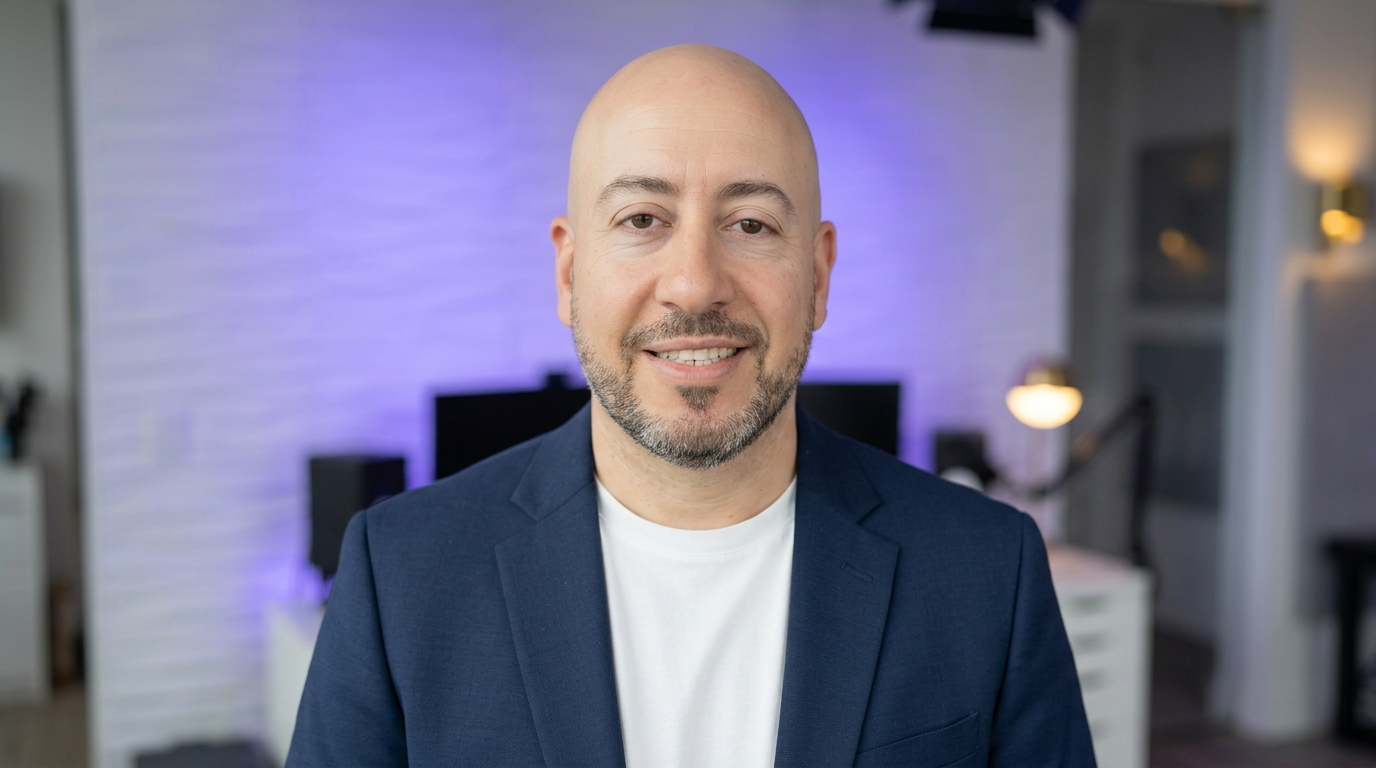
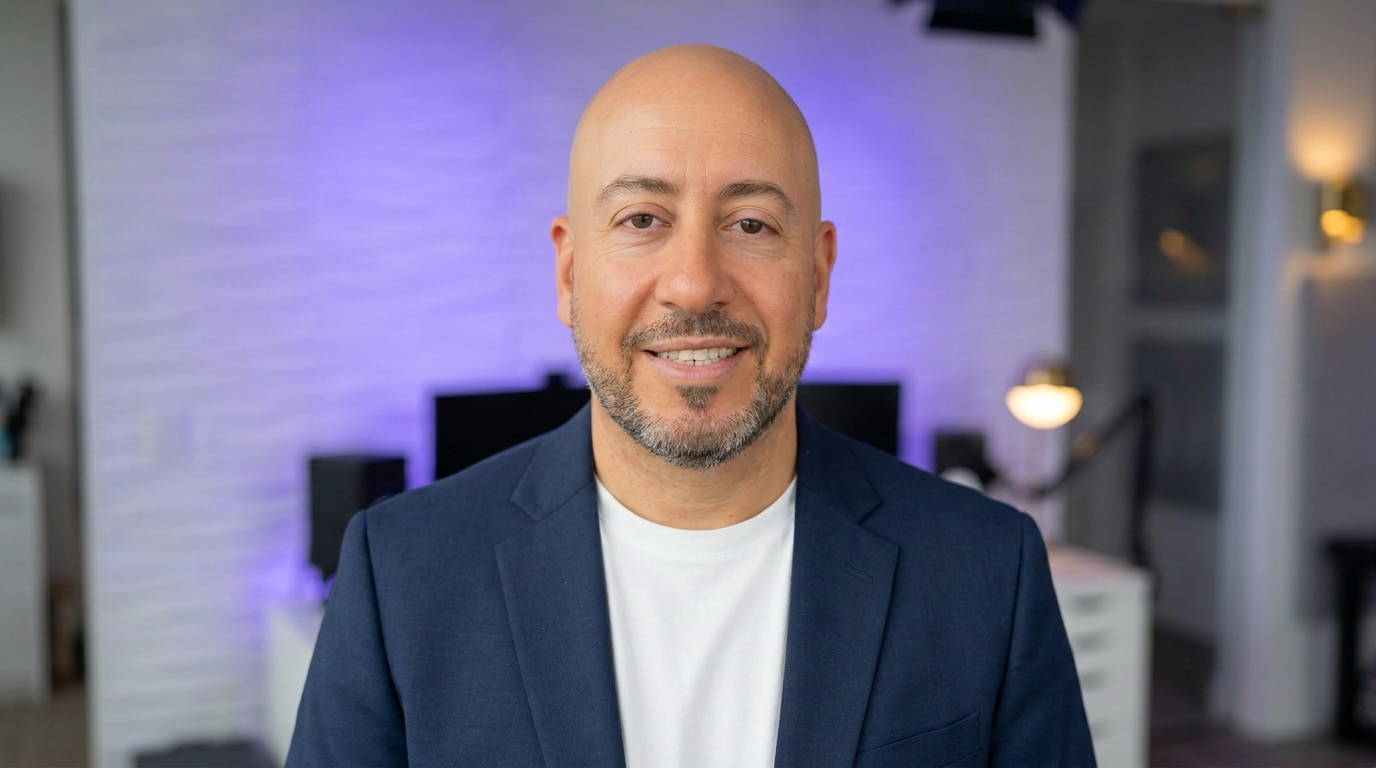
Presenter look C with a warmer skin tone
Claude-Session: https://claude.ai/code/session_014hwx5BRKTDQR9HKcAa3Vr3

Changed region(s): [[0.4062, 0.0625, 0.5938, 0.6875]]

diff --git a/docs/STATUS.md b/docs/STATUS.md
@@ -199,3 +199,5 @@ TikTok cannot be read by an app and are listed to check by hand. Likes are never
   violet glow (`assets/brand/presenter/look_c_navy_blazer.png`), wide format, replaces the grey hoodie. Made
   from the original avatar photo: the dark-studio looks A and B made him look older and were rejected.
   Rendered with `create_video_from_image` (the still, not a saved HeyGen look).
+  Skin warmed on 2026-11-16 (the first render looked pale); founder approved the look for the W46 edit.
+  For W46: render face chunks with `create_video_from_image` from this still, wide format, no side layout.
